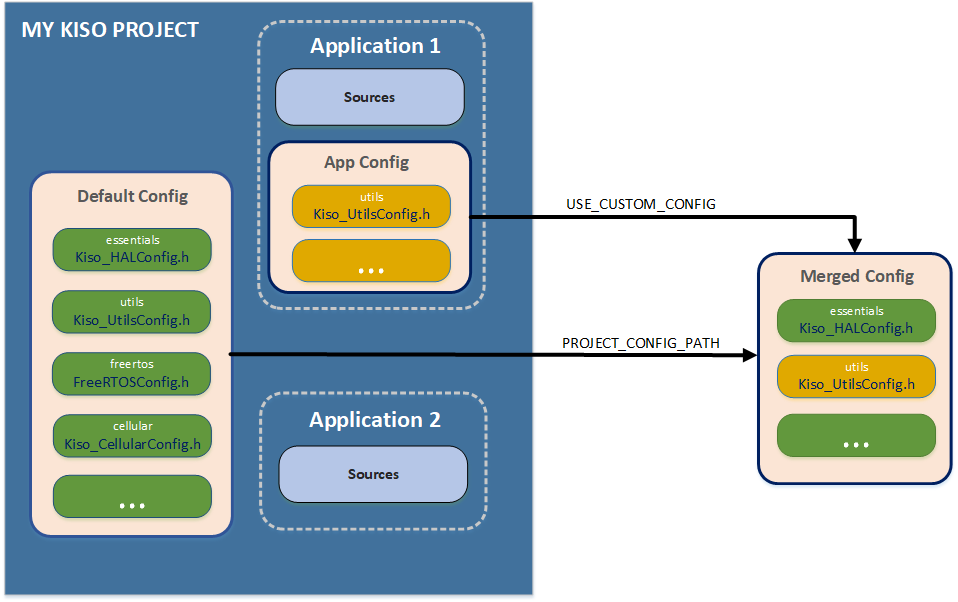
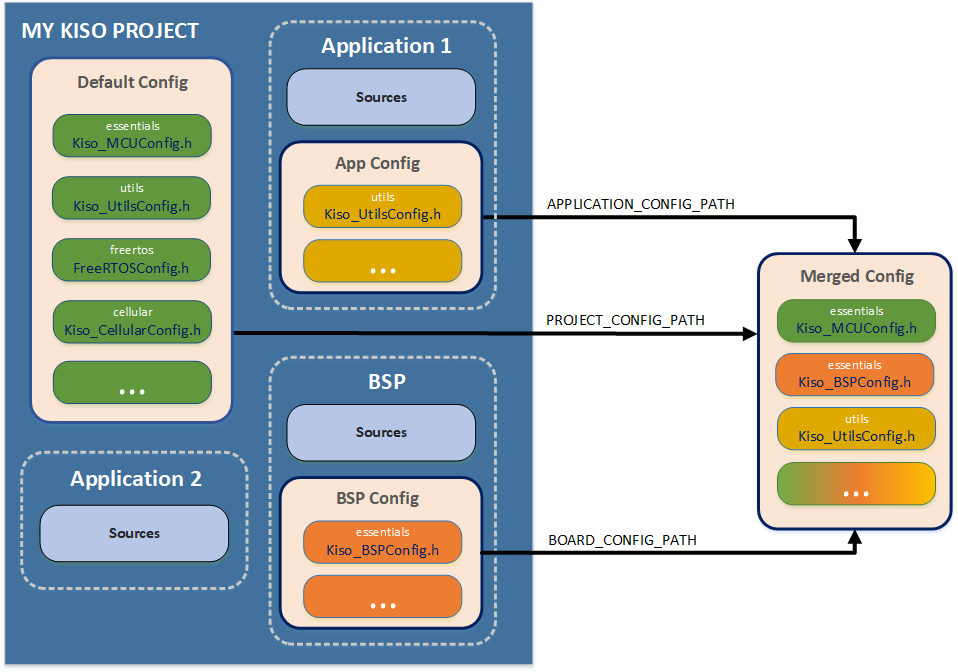
Update documentation for board-specific config

diff --git a/docs/website/content/2. Concepts/configuration.md b/docs/website/content/2. Concepts/configuration.md
@@ -15,9 +15,12 @@ menu:
 
 Kiso consists mainly of four major parts - core libraries, BSP layer, third party libraries and application code.
 The framework and external libraries need to be configured for a specific application via configuration headers. For ease of use,
-we have separated all configuration headers in a single location, allowing for easy swapping between different configurations,
-backup and external accessibility. Kiso also provides a mechanism for a project building multiple applications that have configuration
-differences between them to be handled easily in the build system.
+we have separated the configuration headers in three levels, allowing for easy swapping between different configurations,
+backup and external accessibility. The top level is project-specific configuration directory. You can override this default location using
+the `PROJECT_CONFIG_PATH` CMake variable. After that a board-specific configuration is applied - the is the second level. For the board you are using, the board support package provides
+additional configuration overrides that are automatically applied on top of the project default configurations. BSPs provide the `BOARD_CONFIG_PATH` variable -
+a directory with the same structure as described bellow. Finally the third level is the application-specific configuration.
+Applications have the option to also provide a directory with configuration overrides via the variable `APP_CONFIG_PATH`. Take a look at the c-sensors example to see it in action.
 
 ## Configuration directory structure
 
@@ -29,27 +32,28 @@ The configuration headers for a library are always contained within it's own sub
 external configuration directory is used.
 
 - `${PROJECT_CONFIG_PATH}`
-    - essentials
-        - Kiso_HALConfig.h
-    - utils
-        - Kiso_UtilsConfig.h
-    - freertos
-        - FreeRTOSConfig.h
-    - cellular
-        - Kiso_CellularConfig.h
+    - core
+        - essentials
+            - Kiso_BSPConfig.h
+            - Kiso_MCUConfig.h
+        - utils
+            - Kiso_UtilsConfig.h
+        - cellular
+            - Kiso_CellularConfig.h
+    - thirdparty
+        - freertos
+            - FreeRTOSConfig.h
+        - stm32cubel4
+            - ...
     - ...
         - ...
 
-## Board-specific configuration
+## Merged configuration
 
-TODO - after [#307](https://github.com/Bosch-AE-SW/cddk-oss/issues/307) there will be changes here and in general section.
-
-## Application configuration
-
-The mechanism to specify additional custom configuration per application is available as a CMake function - `USE_CUSTOM_CONFIG(PATH)`.
-This function can be used in an application's CMake file to override any configuration headers from the default project configuration path -
-PROJECT_CONFIG_PATH. With this function you can instruct CMake that you have a directory with application-specific headers that differ from the
-base project configuration. The function takes only one argument - path to the application configuration directory.
+During CMake's 'configure' step, all configuration headers are merged in the build directory and provided to the libraries that need them.
+The base configuration is taken from `PROJECT_CONFIG_PATH`, overridden by the contents of `BOARD_CONFIG_PATH` - the board-specific headers
+and optionally if the application has additional overrides, they are taken from `APP_CONFIG_PATH`.
+The merged result is determined by CMake and normally the user shouldn't need to bother with it. Yet it's location is revealed by CMake just in case.
 
 ![kisoConfig-error](/images/kisoConfig.png)
 
@@ -61,13 +65,14 @@ and any subsequent changes to these files will automatically trigger the configu
 ```txt
 ------------- KISO CONFIG -------------
 ...
-Project Config Path:   /MyProject/kiso_config
+Project Config Path:   /opt/my_project/kiso_config
 ------------- KISO CONFIG -------------
 -- The C compiler identification is GNU 7.3.1
 -- Check for working C compiler: /usr/bin/arm-none-eabi-gcc
 ...
--- Using custom application configuration from /MyProject/application1/app_config
--- Intermediate config path: /MyProject/builddir/application1/config
+-- Applying board-specific configuration from /opt/kiso/boards/CommonGateway/bsp/config.
+-- Applying application-specific configuration from /opt/kiso/examples/CommonGateway/c-sensors/config.
+-- Configuration headers merged in /opt/kiso/builddir/config.
 ...
 -- Configuring done
 -- Generating done
@@ -82,5 +87,3 @@ eventually add your own.
 
 If you don't need specific application configuration, this is all you'll have to do to start with Kiso. Moreover, you can use the default
 configuration that Kiso uses and ommit the variable entirely.
-Another option would be to have only application-specific configuration with the default Kiso configuration as the base for your project.
-In that case, you can only use the `USE_CUSTOM_CONFIG` CMake function in you application's build definitions.
